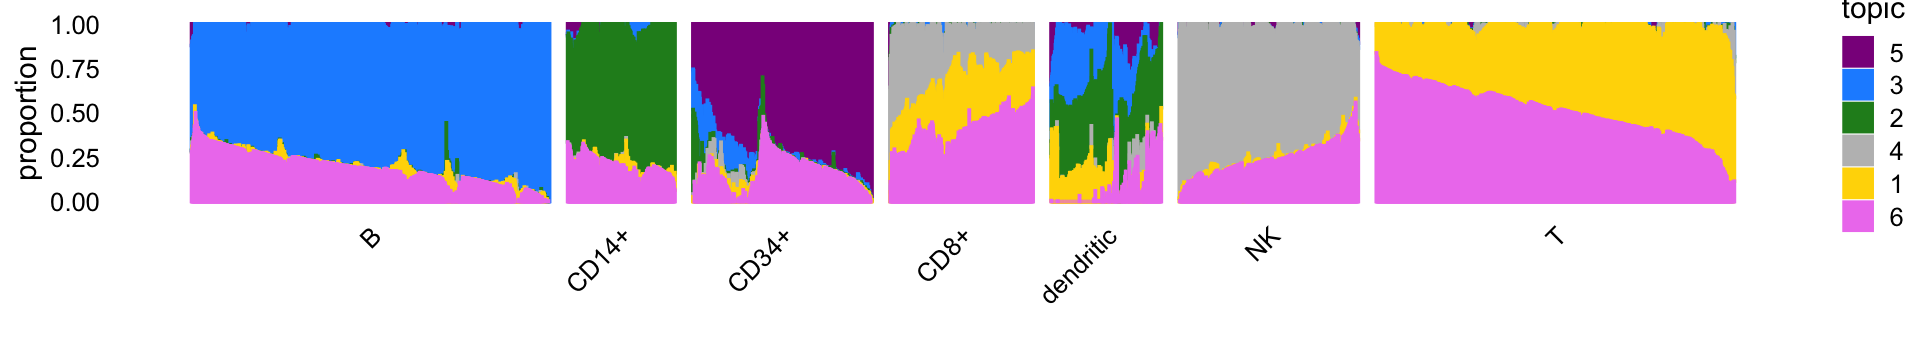
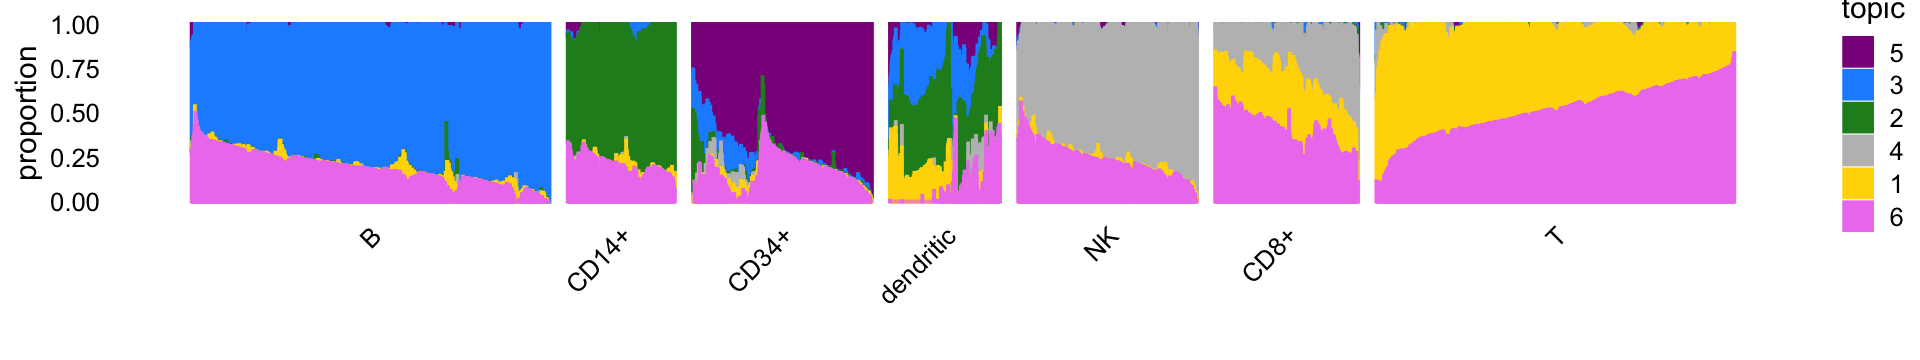
Improved Structure plot for purified PBMC data.

diff --git a/docs/clusters_purified_pbmc.html b/docs/clusters_purified_pbmc.html
@@ -414,16 +414,16 @@ This reproducible <a href="http://rmarkdown.rstudio.com">R Markdown</a> analysis
 <div class="panel panel-default">
 <div class="panel-heading">
 <p class="panel-title">
-<a data-toggle="collapse" data-parent="#workflowr-checks" href="#strongRepositoryversionstrongahrefhttpsgithubcomstephenslabsinglecelltopicstree31103b8e928d2e69878410c924420e5faee6380etargetblank31103b8a"> <span class="glyphicon glyphicon-ok text-success" aria-hidden="true"></span> <strong>Repository version:</strong> <a href="https://github.com/stephenslab/single-cell-topics/tree/31103b8e928d2e69878410c924420e5faee6380e" target="_blank">31103b8</a> </a>
+<a data-toggle="collapse" data-parent="#workflowr-checks" href="#strongRepositoryversionstrongahrefhttpsgithubcomstephenslabsinglecelltopicstree1f52a7cbc8cd5695e250bed44db2f7ca2c9ef1bctargetblank1f52a7ca"> <span class="glyphicon glyphicon-ok text-success" aria-hidden="true"></span> <strong>Repository version:</strong> <a href="https://github.com/stephenslab/single-cell-topics/tree/1f52a7cbc8cd5695e250bed44db2f7ca2c9ef1bc" target="_blank">1f52a7c</a> </a>
 </p>
 </div>
[2 lines of base64/hex data omitted]
 <div class="panel-body">
 <p>
 Great! You are using Git for version control. Tracking code development and connecting the code version to the results is critical for reproducibility.
 </p>
 <p>
-The results in this page were generated with repository version <a href="https://github.com/stephenslab/single-cell-topics/tree/31103b8e928d2e69878410c924420e5faee6380e" target="_blank">31103b8</a>. See the <em>Past versions</em> tab to see a history of the changes made to the R Markdown and HTML files.
+The results in this page were generated with repository version <a href="https://github.com/stephenslab/single-cell-topics/tree/1f52a7cbc8cd5695e250bed44db2f7ca2c9ef1bc" target="_blank">1f52a7c</a>. See the <em>Past versions</em> tab to see a history of the changes made to the R Markdown and HTML files.
 </p>
 <p>
 Note that you need to be careful to ensure that all relevant files for the analysis have been committed to Git prior to generating the results (you can use <code>wflow_publish</code> or <code>wflow_git_commit</code>). workflowr only checks the R Markdown file, but you know if there are other scripts or data files that it depends on. Below is the status of the Git repository when the results were generated:
@@ -447,11 +447,13 @@ Ignored files:
     Ignored:    output/pulseseq/rds/
 
 Untracked files:
+    Untracked:  .DS_Store
     Untracked:  analysis/clustering-pbmc-purified.rds
     Untracked:  analysis/pca_cd34_pbmc_purified.png
     Untracked:  analysis/pca_clusters_pbmc_purified.png
     Untracked:  analysis/pca_facs_pbmc_purified.png
     Untracked:  analysis/pca_hexbin_pbmc_purified.eps
+    Untracked:  analysis/structure_plot_pbmc_purified.eps
 
 </code></pre>
 <p>
@@ -490,6 +492,40 @@ Message
 </tr>
 </thead>
 <tbody>
+<tr>
+<td>
+Rmd
+</td>
+<td>
+<a href="https://github.com/stephenslab/single-cell-topics/blob/1f52a7cbc8cd5695e250bed44db2f7ca2c9ef1bc/analysis/clusters_purified_pbmc.Rmd" target="_blank">1f52a7c</a>
+</td>
+<td>
+Peter Carbonetto
+</td>
+<td>
+2020-11-28
+</td>
+<td>
+workflowr::wflow_publish(“clusters_purified_pbmc.Rmd”)
+</td>
+</tr>
+<tr>
+<td>
+html
+</td>
+<td>
+<a href="https://rawcdn.githack.com/stephenslab/single-cell-topics/f7e773e70ea7ff7e801412a871ddd65608687e20/docs/clusters_purified_pbmc.html" target="_blank">f7e773e</a>
+</td>
+<td>
+Peter Carbonetto
+</td>
+<td>
+2020-11-28
+</td>
+<td>
+Build site.
+</td>
+</tr>
 <tr>
 <td>
 Rmd
@@ -1035,6 +1071,17 @@ Date
 <tbody>
 <tr>
 <td>
+<a href="https://github.com/stephenslab/single-cell-topics/blob/f7e773e70ea7ff7e801412a871ddd65608687e20/docs/figure/clusters_purified_pbmc.Rmd/clustering-6-1.png" target="_blank">f7e773e</a>
+</td>
+<td>
+Peter Carbonetto
+</td>
+<td>
+2020-11-28
+</td>
+</tr>
+<tr>
+<td>
 <a href="https://github.com/stephenslab/single-cell-topics/blob/4781407bc8d21a3b7c2e21eb21ab47649847d8d5/docs/figure/clusters_purified_pbmc.Rmd/clustering-6-1.png" target="_blank">4781407</a>
 </td>
 <td>
@@ -1081,7 +1128,7 @@ p4 &lt;- pca_plot(select(poisson2multinom(fit),loadings = rows),
   scale_fill_manual(values = facs_colors,drop = FALSE) +
   labs(fill = &quot;FACS subpopulation&quot;)
 print(p4)</code></pre>
-<p><img src="figure/clusters_purified_pbmc.Rmd/clustering-7-1.png" width="510" style="display: block; margin: auto;" /></p>
+<p><img src="figure/clusters_purified_pbmc.Rmd/clustering-7-1.png" width="540" style="display: block; margin: auto;" /></p>
 <p>
 <button type="button" class="btn btn-default btn-xs btn-workflowr btn-workflowr-fig" data-toggle="collapse" data-target="#fig-clustering-7-1">
 Past versions of clustering-7-1.png
@@ -1104,6 +1151,17 @@ Date
 </tr>
 </thead>
 <tbody>
+<tr>
+<td>
+<a href="https://github.com/stephenslab/single-cell-topics/blob/f7e773e70ea7ff7e801412a871ddd65608687e20/docs/figure/clusters_purified_pbmc.Rmd/clustering-7-1.png" target="_blank">f7e773e</a>
+</td>
+<td>
+Peter Carbonetto
+</td>
+<td>
+2020-11-28
+</td>
+</tr>
 <tr>
 <td>
 <a href="https://github.com/stephenslab/single-cell-topics/blob/e7411a07b556af4f5dd2eff03bd7ca13d04e0d80/docs/figure/clusters_purified_pbmc.Rmd/clustering-7-1.png" target="_blank">e7411a0</a>
@@ -1133,7 +1191,7 @@ Peter Carbonetto
 </div>
 <div id="structure-plot" class="section level2">
 <h2>Structure plot</h2>
-<p>The structure plot summarizes the topic proportions in each of these 6 subsets:</p>
+<p>The structure plot summarizes the topic proportions in each of the 7 subsets:</p>
 <pre class="r"><code>set.seed(1)
 topic_colors &lt;- c(&quot;gold&quot;,&quot;forestgreen&quot;,&quot;dodgerblue&quot;,&quot;gray&quot;,
                   &quot;darkmagenta&quot;,&quot;violet&quot;)
@@ -1141,15 +1199,17 @@ topics &lt;- c(5,3,2,4,1,6)
 rows &lt;- sort(c(sample(which(samples$cluster == &quot;B&quot;),1000),
                sample(which(samples$cluster == &quot;CD14+&quot;),300),
                sample(which(samples$cluster == &quot;CD34+&quot;),500),
-               which(samples$cluster == &quot;dendritic&quot;),
                sample(which(samples$cluster == &quot;CD8+&quot;),400),
                sample(which(samples$cluster == &quot;NK&quot;),500),
-               sample(which(samples$cluster == &quot;T&quot;),1000)))
+               sample(which(samples$cluster == &quot;T&quot;),1000),
+               which(samples$cluster == &quot;dendritic&quot;)))
+x  &lt;- samples[rows,&quot;cluster&quot;]
+x  &lt;- factor(x,c(&quot;B&quot;,&quot;CD14+&quot;,&quot;CD34+&quot;,&quot;dendritic&quot;,&quot;NK&quot;,&quot;CD8+&quot;,&quot;T&quot;))
 p5 &lt;- structure_plot(select(poisson2multinom(fit),loadings = rows),
-                     grouping = samples[rows,&quot;cluster&quot;],
-                     topics = topics,colors = topic_colors[topics],
-                     perplexity = c(70,30,30,30,30,30,70),
-                     n = Inf,gap = 50,num_threads = 4,verbose = FALSE)
+                     grouping = x,topics = topics,
+                     colors = topic_colors[topics],
+                     perplexity = c(70,30,30,30,30,30,70),n = Inf,gap = 50,
+                     num_threads = 4,verbose = FALSE)
 print(p5)</code></pre>
 <p><img src="figure/clusters_purified_pbmc.Rmd/structure-plot-1.png" width="960" style="display: block; margin: auto;" /></p>
 <p>
@@ -1211,7 +1271,202 @@ Peter Carbonetto
 </table>
 </div>
 </div>
-<p>Note that CD8+ cells are identified as a distinctive mixture of topics capturing NK cells and T-cells.</p>
+<pre><code># Read the 1000 x 6 data matrix successfully!
+# OpenMP is working. 4 threads.
+# Using no_dims = 1, perplexity = 70.000000, and theta = 0.100000
+# Computing input similarities...
+# Building tree...
+# Done in 0.51 seconds (sparsity = 0.265310)!
+# Learning embedding...
+# Iteration 50: error is 54.849327 (50 iterations in 0.30 seconds)
+# Iteration 100: error is 51.192821 (50 iterations in 0.28 seconds)
+# Iteration 150: error is 51.083719 (50 iterations in 0.29 seconds)
+# Iteration 200: error is 51.078956 (50 iterations in 0.29 seconds)
+# Iteration 250: error is 51.078749 (50 iterations in 0.29 seconds)
+# Iteration 300: error is 0.732521 (50 iterations in 0.29 seconds)
+# Iteration 350: error is 0.617596 (50 iterations in 0.29 seconds)
+# Iteration 400: error is 0.584548 (50 iterations in 0.29 seconds)
+# Iteration 450: error is 0.573475 (50 iterations in 0.29 seconds)
+# Iteration 500: error is 0.569792 (50 iterations in 0.28 seconds)
+# Iteration 550: error is 0.568598 (50 iterations in 0.29 seconds)
+# Iteration 600: error is 0.568196 (50 iterations in 0.29 seconds)
+# Iteration 650: error is 0.568036 (50 iterations in 0.29 seconds)
+# Iteration 700: error is 0.567974 (50 iterations in 0.29 seconds)
+# Iteration 750: error is 0.567954 (50 iterations in 0.29 seconds)
+# Iteration 800: error is 0.567949 (50 iterations in 0.29 seconds)
+# Iteration 850: error is 0.567947 (50 iterations in 0.29 seconds)
+# Iteration 900: error is 0.567940 (50 iterations in 0.29 seconds)
+# Iteration 950: error is 0.567936 (50 iterations in 0.29 seconds)
+# Iteration 1000: error is 0.567928 (50 iterations in 0.46 seconds)
+# Fitting performed in 5.93 seconds.
+# Read the 300 x 6 data matrix successfully!
+# OpenMP is working. 4 threads.
+# Using no_dims = 1, perplexity = 30.000000, and theta = 0.100000
+# Computing input similarities...
+# Building tree...
+# Done in 0.05 seconds (sparsity = 0.404933)!
+# Learning embedding...
+# Iteration 50: error is 53.994579 (50 iterations in 0.08 seconds)
+# Iteration 100: error is 52.809519 (50 iterations in 0.07 seconds)
+# Iteration 150: error is 52.809989 (50 iterations in 0.08 seconds)
+# Iteration 200: error is 52.815056 (50 iterations in 0.07 seconds)
+# Iteration 250: error is 52.824649 (50 iterations in 0.07 seconds)
+# Iteration 300: error is 0.720270 (50 iterations in 0.07 seconds)
+# Iteration 350: error is 0.673475 (50 iterations in 0.07 seconds)
+# Iteration 400: error is 0.668579 (50 iterations in 0.08 seconds)
+# Iteration 450: error is 0.668025 (50 iterations in 0.08 seconds)
+# Iteration 500: error is 0.667937 (50 iterations in 0.08 seconds)
+# Iteration 550: error is 0.667924 (50 iterations in 0.08 seconds)
+# Iteration 600: error is 0.667914 (50 iterations in 0.08 seconds)
+# Iteration 650: error is 0.667910 (50 iterations in 0.08 seconds)
+# Iteration 700: error is 0.667913 (50 iterations in 0.08 seconds)
+# Iteration 750: error is 0.667911 (50 iterations in 0.08 seconds)
+# Iteration 800: error is 0.667907 (50 iterations in 0.08 seconds)
+# Iteration 850: error is 0.667906 (50 iterations in 0.07 seconds)
+# Iteration 900: error is 0.667907 (50 iterations in 0.07 seconds)
+# Iteration 950: error is 0.667907 (50 iterations in 0.08 seconds)
+# Iteration 1000: error is 0.667907 (50 iterations in 0.08 seconds)
+# Fitting performed in 1.51 seconds.
+# Read the 500 x 6 data matrix successfully!
+# OpenMP is working. 4 threads.
+# Using no_dims = 1, perplexity = 30.000000, and theta = 0.100000
+# Computing input similarities...
+# Building tree...
+# Done in 0.08 seconds (sparsity = 0.232952)!
+# Learning embedding...
+# Iteration 50: error is 58.555468 (50 iterations in 0.14 seconds)
+# Iteration 100: error is 55.474553 (50 iterations in 0.13 seconds)
+# Iteration 150: error is 55.427057 (50 iterations in 0.13 seconds)
+# Iteration 200: error is 55.427182 (50 iterations in 0.13 seconds)
+# Iteration 250: error is 55.427824 (50 iterations in 0.13 seconds)
+# Iteration 300: error is 0.769603 (50 iterations in 0.13 seconds)
+# Iteration 350: error is 0.653655 (50 iterations in 0.13 seconds)
+# Iteration 400: error is 0.627157 (50 iterations in 0.13 seconds)
+# Iteration 450: error is 0.620133 (50 iterations in 0.13 seconds)
+# Iteration 500: error is 0.617674 (50 iterations in 0.13 seconds)
+# Iteration 550: error is 0.616601 (50 iterations in 0.13 seconds)
+# Iteration 600: error is 0.616074 (50 iterations in 0.13 seconds)
+# Iteration 650: error is 0.615737 (50 iterations in 0.13 seconds)
+# Iteration 700: error is 0.615522 (50 iterations in 0.13 seconds)
+# Iteration 750: error is 0.615410 (50 iterations in 0.13 seconds)
+# Iteration 800: error is 0.615358 (50 iterations in 0.13 seconds)
+# Iteration 850: error is 0.615319 (50 iterations in 0.13 seconds)
+# Iteration 900: error is 0.615310 (50 iterations in 0.13 seconds)
+# Iteration 950: error is 0.615301 (50 iterations in 0.13 seconds)
+# Iteration 1000: error is 0.615289 (50 iterations in 0.14 seconds)
+# Fitting performed in 2.61 seconds.
+# Read the 308 x 6 data matrix successfully!
+# OpenMP is working. 4 threads.
+# Using no_dims = 1, perplexity = 30.000000, and theta = 0.100000
+# Computing input similarities...
+# Building tree...
+# Done in 0.05 seconds (sparsity = 0.391782)!
+# Learning embedding...
+# Iteration 50: error is 54.984029 (50 iterations in 0.08 seconds)
+# Iteration 100: error is 53.348291 (50 iterations in 0.08 seconds)
+# Iteration 150: error is 53.338070 (50 iterations in 0.08 seconds)
+# Iteration 200: error is 53.317486 (50 iterations in 0.08 seconds)
+# Iteration 250: error is 53.314372 (50 iterations in 0.08 seconds)
+# Iteration 300: error is 0.645658 (50 iterations in 0.08 seconds)
+# Iteration 350: error is 0.608593 (50 iterations in 0.08 seconds)
+# Iteration 400: error is 0.604474 (50 iterations in 0.08 seconds)
+# Iteration 450: error is 0.603764 (50 iterations in 0.08 seconds)
+# Iteration 500: error is 0.603585 (50 iterations in 0.08 seconds)
+# Iteration 550: error is 0.603586 (50 iterations in 0.08 seconds)
+# Iteration 600: error is 0.603599 (50 iterations in 0.08 seconds)
+# Iteration 650: error is 0.603596 (50 iterations in 0.08 seconds)
+# Iteration 700: error is 0.603593 (50 iterations in 0.08 seconds)
+# Iteration 750: error is 0.603595 (50 iterations in 0.08 seconds)
+# Iteration 800: error is 0.603594 (50 iterations in 0.08 seconds)
+# Iteration 850: error is 0.603593 (50 iterations in 0.08 seconds)
+# Iteration 900: error is 0.603595 (50 iterations in 0.08 seconds)
+# Iteration 950: error is 0.603592 (50 iterations in 0.08 seconds)
+# Iteration 1000: error is 0.603594 (50 iterations in 0.08 seconds)
+# Fitting performed in 1.56 seconds.
+# Read the 500 x 6 data matrix successfully!
+# OpenMP is working. 4 threads.
+# Using no_dims = 1, perplexity = 30.000000, and theta = 0.100000
+# Computing input similarities...
+# Building tree...
+# Done in 0.08 seconds (sparsity = 0.232680)!
+# Learning embedding...
+# Iteration 50: error is 55.828644 (50 iterations in 0.14 seconds)
+# Iteration 100: error is 53.441669 (50 iterations in 0.13 seconds)
+# Iteration 150: error is 53.339658 (50 iterations in 0.14 seconds)
+# Iteration 200: error is 53.333986 (50 iterations in 0.19 seconds)
+# Iteration 250: error is 53.333650 (50 iterations in 0.17 seconds)
+# Iteration 300: error is 0.823127 (50 iterations in 0.19 seconds)
+# Iteration 350: error is 0.725606 (50 iterations in 0.15 seconds)
+# Iteration 400: error is 0.701736 (50 iterations in 0.13 seconds)
+# Iteration 450: error is 0.694540 (50 iterations in 0.13 seconds)
+# Iteration 500: error is 0.691770 (50 iterations in 0.13 seconds)
+# Iteration 550: error is 0.690536 (50 iterations in 0.13 seconds)
+# Iteration 600: error is 0.689945 (50 iterations in 0.13 seconds)
+# Iteration 650: error is 0.689583 (50 iterations in 0.13 seconds)
+# Iteration 700: error is 0.689448 (50 iterations in 0.13 seconds)
+# Iteration 750: error is 0.689366 (50 iterations in 0.13 seconds)
+# Iteration 800: error is 0.689317 (50 iterations in 0.13 seconds)
+# Iteration 850: error is 0.689298 (50 iterations in 0.13 seconds)
+# Iteration 900: error is 0.689282 (50 iterations in 0.13 seconds)
+# Iteration 950: error is 0.689265 (50 iterations in 0.13 seconds)
+# Iteration 1000: error is 0.689269 (50 iterations in 0.13 seconds)
+# Fitting performed in 2.81 seconds.
+# Read the 400 x 6 data matrix successfully!
+# OpenMP is working. 4 threads.
+# Using no_dims = 1, perplexity = 30.000000, and theta = 0.100000
+# Computing input similarities...
+# Building tree...
+# Done in 0.06 seconds (sparsity = 0.286662)!
+# Learning embedding...
+# Iteration 50: error is 56.264884 (50 iterations in 0.11 seconds)
+# Iteration 100: error is 54.488017 (50 iterations in 0.10 seconds)
+# Iteration 150: error is 54.480674 (50 iterations in 0.10 seconds)
+# Iteration 200: error is 54.480640 (50 iterations in 0.10 seconds)
+# Iteration 250: error is 54.480633 (50 iterations in 0.10 seconds)
+# Iteration 300: error is 0.867579 (50 iterations in 0.10 seconds)
+# Iteration 350: error is 0.812040 (50 iterations in 0.10 seconds)
+# Iteration 400: error is 0.802882 (50 iterations in 0.10 seconds)
+# Iteration 450: error is 0.800977 (50 iterations in 0.10 seconds)
+# Iteration 500: error is 0.800426 (50 iterations in 0.10 seconds)
+# Iteration 550: error is 0.800243 (50 iterations in 0.10 seconds)
+# Iteration 600: error is 0.800175 (50 iterations in 0.10 seconds)
+# Iteration 650: error is 0.800152 (50 iterations in 0.10 seconds)
+# Iteration 700: error is 0.800129 (50 iterations in 0.10 seconds)
+# Iteration 750: error is 0.800125 (50 iterations in 0.10 seconds)
+# Iteration 800: error is 0.800125 (50 iterations in 0.10 seconds)
+# Iteration 850: error is 0.800122 (50 iterations in 0.10 seconds)
+# Iteration 900: error is 0.800122 (50 iterations in 0.10 seconds)
+# Iteration 950: error is 0.800121 (50 iterations in 0.10 seconds)
+# Iteration 1000: error is 0.800121 (50 iterations in 0.10 seconds)
+# Fitting performed in 2.02 seconds.
+# Read the 1000 x 6 data matrix successfully!
+# OpenMP is working. 4 threads.
+# Using no_dims = 1, perplexity = 70.000000, and theta = 0.100000
+# Computing input similarities...
+# Building tree...
+# Done in 0.51 seconds (sparsity = 0.250884)!
+# Learning embedding...
+# Iteration 50: error is 53.710876 (50 iterations in 0.29 seconds)
+# Iteration 100: error is 48.777945 (50 iterations in 0.28 seconds)
+# Iteration 150: error is 48.374510 (50 iterations in 0.28 seconds)
+# Iteration 200: error is 48.315733 (50 iterations in 0.28 seconds)
+# Iteration 250: error is 48.306647 (50 iterations in 0.28 seconds)
+# Iteration 300: error is 0.606571 (50 iterations in 0.28 seconds)
+# Iteration 350: error is 0.497204 (50 iterations in 0.29 seconds)
+# Iteration 400: error is 0.470983 (50 iterations in 0.34 seconds)
+# Iteration 450: error is 0.463407 (50 iterations in 0.39 seconds)
+# Iteration 500: error is 0.461223 (50 iterations in 0.28 seconds)
+# Iteration 550: error is 0.460670 (50 iterations in 0.28 seconds)
+# Iteration 600: error is 0.460489 (50 iterations in 0.28 seconds)
+# Iteration 650: error is 0.460428 (50 iterations in 0.28 seconds)
+# Iteration 700: error is 0.460402 (50 iterations in 0.28 seconds)
+# Iteration 750: error is 0.460398 (50 iterations in 0.28 seconds)
+# Iteration 800: error is 0.460231 (50 iterations in 0.28 seconds)
+# Iteration 850: error is 0.460214 (50 iterations in 0.28 seconds)
+# Iteration 900: error is 0.460203 (50 iterations in 0.28 seconds)
+# Iteration 950: error is 0.460200 (50 iterations in 0.27 seconds)
+# Iteration 1000: error is 0.460194 (50 iterations in 0.28 seconds)
+# Fitting performed in 5.79 seconds.</code></pre>
 </div>
 <div id="analysis-of-single-cell-likelihoods" class="section level2">
 <h2>Analysis of single-cell likelihoods</h2>
@@ -1219,8 +1474,8 @@ Peter Carbonetto
 </div>
 <div id="pca-vs.-t-sne-and-umap-an-illustration" class="section level2">
 <h2>PCA vs. <em>t</em>-SNE and UMAP: an illustration</h2>
-<p>Here we illustrate one of the benefits of using a simple linear dimensionality reduction technique, PCA, over more widely used nonlinear dimensionality reduction methods <em>t</em>-SNE and UMAP. In particular, we compare a 2-d linear embedding produced by PCA against nonlinear embeddings generated by <em>t</em>-SNE and UMAP.</p>
-<p>To begin, draw a random subset of 2,000 cells from the B, CD14+ and CD34+ clusters identified above. (The main reason for taking a random subset is that we don’t want to wait a long time for <em>t</em>-SNE and UMAP to complete.) Then run PCA on the topic proportions for this random subset of 2,000 samples.</p>
+<p>Here we contrast use of a simple linear dimensionality reduction technique, PCA, with nonlinear dimensionality reduction methods <em>t</em>-SNE and UMAP.</p>
+<p>To begin, draw a random subset of 2,000 cells from the B, CD14+ and CD34+ clusters identified above. (The main reason for taking a random subset is that we don’t want to wait a long time for <em>t</em>-SNE and UMAP to complete.) Next, we run PCA on the topic proportions for this random subset of 2,000 samples.</p>
 <pre class="r"><code>set.seed(5)
 rows &lt;- which(with(samples,
                    cluster == &quot;B&quot; | cluster == &quot;CD14+&quot; | cluster == &quot;CD34+&quot;))
@@ -1228,7 +1483,7 @@ rows &lt;- sort(sample(rows,2000))
 fit2 &lt;- select(poisson2multinom(fit),loadings = rows)
 x    &lt;- samples$cluster[rows,drop = TRUE]
 p6   &lt;- pca_plot(fit2,fill = x) + labs(fill = &quot;cluster&quot;)</code></pre>
-<p>Next, run <em>t</em>-SNE on the topic proportions.</p>
+<p>Run <em>t</em>-SNE on the topic proportions.</p>
 <pre class="r"><code>tsne &lt;- Rtsne(fit2$L,dims = 2,pca = FALSE,normalize = FALSE,perplexity = 100,
               theta = 0.1,max_iter = 1000,eta = 200,verbose = FALSE)
 tsne$x &lt;- tsne$Y
